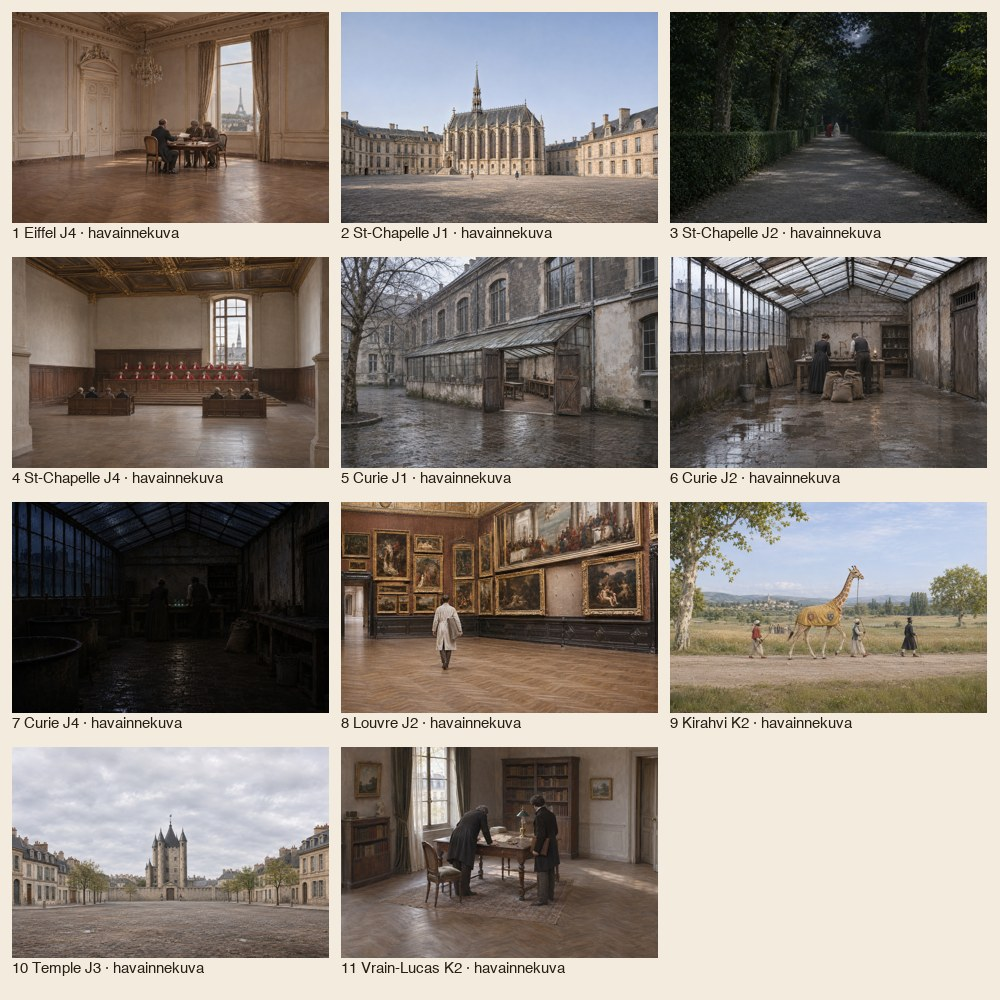
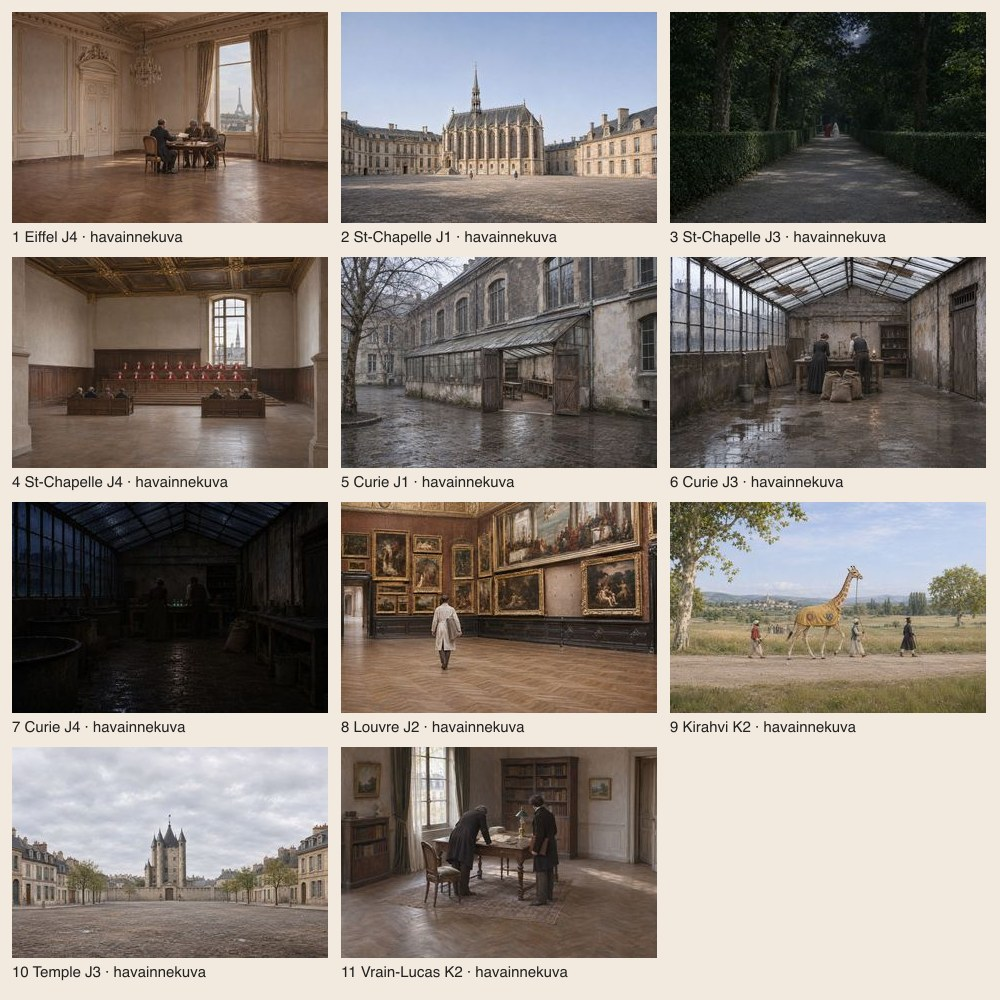
K-5 korjaus (KK 20.11.2026 14.00): kaulanauha J3, Curie radiumtyo J3 ja hohto J4, 11 kuvaa 1200 × 800, jaksotesti

diff --git a/js/packs/fokuskohteet-fra.js b/js/packs/fokuskohteet-fra.js
@@ -798,13 +798,13 @@ export const FOKUSKOHTEET_FRA = [
       },
       {
         osa: 'tapahtuma',
-        kuva: 'kaulanauha',
         teksti: '1770-luvulla jalokivikauppiaat tekivät timanttikaulanauhan. Marie Antoinette kieltäytyi '
           + 'ostamasta sitä, mutta huijari Jeanne de La Motte sai kardinaali de Rohanin uskomaan, että '
           + 'kuningatar halusi nauhan salaa.',
       },
       {
         osa: 'tapahtuma',
+        kuva: 'kaulanauha',
         teksti: 'Elokuussa 1784 kardinaali tapasi Versailles\'n puistossa naisen, jonka hän luuli kuningattareksi. '
           + 'Alkuvuodesta 1785 hän sai nauhan kauppiailta ja luovutti sen Jeannelle. Kun kauppiaat pyysivät '
           + 'maksua, kuningatar vaati selvitystä, ja kardinaali pidätettiin.',
@@ -933,7 +933,6 @@ export const FOKUSKOHTEET_FRA = [
       },
       {
         osa: 'tapahtuma',
-        kuva: 'radiumtyo',
         teksti: 'Marie ja Pierre Curie tutkivat uraanimalmin sisältämää säteilyä. Heinäkuussa 1898 he ilmoittivat '
           + 'löytäneensä uuden alkuaineen. He nimesivät sen Marien kotimaan Puolan mukaan poloniumiksi. '
           + 'Joulukuussa he ilmoittivat toisen, radiumin.',
@@ -943,12 +942,13 @@ export const FOKUSKOHTEET_FRA = [
       },
       {
         osa: 'tapahtuma',
-        kuva: 'hohto',
+        kuva: 'radiumtyo',
         teksti: 'Pelkkä ilmoitus ei riittänyt, vaan alkuaine piti saada puhtaana erilleen malmista. Vaja oli '
           + 'huonosti tuuletettu eikä pitänyt sadetta, ja malmia kului tonneittain.',
       },
       {
         osa: 'kaanne',
+        kuva: 'hohto',
         teksti: 'Työ vei yli kolme vuotta, ja vuonna 1902 heillä oli kymmenesosagramma puhdasta radiumkloridia. '
           + 'Iltaisin radium hohti pimeässä, ja Curiet ihailivat sitä. Marie sai fysiikan Nobelin vuonna 1903 '
           + 'Pierren ja Henri Becquerelin kanssa ja kemian Nobelin vuonna 1911 yksin.',

diff --git a/docs/raportit/k5-codex-kuvat-dataan-20261120.md b/docs/raportit/k5-codex-kuvat-dataan-20261120.md
@@ -1,38 +1,42 @@
 # K-5: Codexin 11 nostokuvaa dataan havainnekuvina (SK 20.11.2026)
 
-Pohja `sk/l5-nostotekstit-era3` b25b1cc54e. Kuvat luetaan ämpäristä `media.matkakirja.app/kuvat/tarina-*.jpg`; tekstejä, uusia kuvia, vientiä tai Pompidoun kuvaa ei muutettu.
+Pohja `sk/l5-nostotekstit-era3` b25b1cc54e. Kuvat luetaan ämpäristä `media.matkakirja.app/kuvat/tarina-*.jpg` (korjauskierroksen jälkeen 1200 × 800 -tiedostoina, ks. K-5 korjaus alla); tekstejä, uusia kuvia, vientiä tai Pompidoun kuvaa ei muutettu.
 
 ![arkki](k5-codex-kuvat-arkki-20261120.jpg)
 
 ## M1 luvuin
-- 11/11 kuvaa datassa manifestin nimeämän noston ja jakson kohdalla (taulukko alla; testi `tests/k5-codex-kuvat.test.mjs` tarkistaa paikan vientipaketin `nostokuvat`-listasta). Kuvat: Eiffel J4, Sainte-Chapelle J1, J2, J4, Curien vaja J1, J2, J4 (`fokuskohteet-fra.js`), Louvre J2, Temple-torni J3 (`monumentit-eurooppa.js`), Kirahvi kappale 2 (`fokusvirta-pariisi.js`, `kuvat`), Vrain-Lucas kappale 2 (`skandaalit.js`, `kuvat`).
+- 11/11 kuvaa datassa manifestin nimeämän noston ja jakson kohdalla (taulukko alla; testi `tests/k5-codex-kuvat.test.mjs` tarkistaa paikan vientipaketin `nostokuvat`-listasta). Kuvat: Eiffel J4, Sainte-Chapelle J1, J3, J4, Curien vaja J1, J3, J4 (`fokuskohteet-fra.js`), Louvre J2, Temple-torni J3 (`monumentit-eurooppa.js`), Kirahvi kappale 2 (`fokusvirta-pariisi.js`, `kuvat`), Vrain-Lucas kappale 2 (`skandaalit.js`, `kuvat`).
 - Jokaisella `laji: 'havainnekuva'`, lähderivi alkaa "Tekoälyllä tuotettu havainnekuva; Matkakirjan havainnekuva." ja jatkuu LAHTEET.md:n viitteillä ja rekonstruktiohuomiolla; tekijä "Matkakirja (tekoälyllä tuotettu havainnekuva)", lisenssi "Matkakirjan oma".
-- Ämpäristä haettu 11 tiedostoa (HTTP 200); sha256 täsmää SHA256SUMS-riveihin 11/11 (taulukon sarake).
+- Taulukon sha-sarake = uusien 1200 × 800 -tiedostojen sha256 (luovutuskansio `codex-k5-nostojen-kuvat-1200-20261120/SHA256SUMS`); ämpärin sha-vertailu ajetaan, kun JU on ladannut tiedostot.
 - Curien vajan J1: uusi `tarina-curie-1898-1-vaja.jpg` korvaa entisen `curie-1898-vaja.jpg`-havainnekuvan (K-4:n korvaustilaus, LAHTEET viittaa siihen); vanha tiedosto jää palvelimelle.
 - Lähtöluettelosta (`docs/raportit/pariisin-nostokuvat-rikkeet-lahto-20261120.json`) poistettu korjatut: sainte-chapelle ja curie-1898 (vajaa); rikkovia 22 → 20. Kaikki A-, B- ja D-nostot ovat nyt 3–4 kuvaa ja viimeinen valokuva.
 
 ## M2 silmin: nosto | jakso | kertojan teksti | kuva | selite
 | # | Nosto | Jakso | Kertojan teksti siltä jaksolta | Tiedosto (sha256 täsmää) | Selite (lyhyt) | Paikka listassa |
 |---|---|---|---|---|---|---|
-| 1 | Eiffel-torni (eiffel-torni) | 4 | Vuonna 1925 huijari Victor Lustig luki lehdestä, että tornin kunnossapito on kallista. Väärennetyin virkapaperein hän esiintyi ministeriön apulaisjohtajana ja myi muka tornin romukauppiaalle. Kauppias häpesi eikä ilmoittanut poliisille, joten Lustig palasi ja yritti uudestaan. | `tarina-eiffel-torni-4-lustig.jpg` ✓ 375a1149 | Hotellin salongissa neuvotellaan tornin kaupasta, ikkunasta näkyy Eiffel-torni (havainnekuva) | 3/4 |
-| 2 | Sainte-Chapelle | 1 | Sainte-Chapelle on kappeli Cité-saaren palatsin pihalla. Kuningas Ludvig IX rakennutti sen säilyttämään Kristuksen orjantappurakruunua, ja se vihittiin vuonna 1248. Samassa palatsissa ratkaistiin kuningattaren kaulanauhajuttu. | `tarina-sainte-chapelle-1-piha.jpg` ✓ 61bff8e9 | Sainte-Chapelle palatsin pihalla (havainnekuva) | 1/4 |
-| 3 | Sainte-Chapelle | 2 | 1770-luvulla jalokivikauppiaat tekivät timanttikaulanauhan. Marie Antoinette kieltäytyi ostamasta sitä, mutta huijari Jeanne de La Motte sai kardinaali de Rohanin uskomaan, että kuningatar halusi nauhan salaa. | `tarina-sainte-chapelle-2-kaulanauha.jpg` ✓ 6458963e | Yöllinen kuja Versailles'n puistossa, kaukana kaksi hahmoa (havainnekuva) | 2/4 |
-| 4 | Sainte-Chapelle | 4 | Oikeudenkäynti pidettiin Pariisin parlamentissa. Toukokuussa 1786 kardinaali vapautettiin, ja Jeanne leimattiin varkaaksi ja vietiin vankilaan. Kuningattaren maine kärsi. | `tarina-sainte-chapelle-4-parlamentti.jpg` ✓ b3907bba | Pariisin parlamentin istuntosali, ikkunasta näkyy kappelin torni (havainnekuva) | 3/4 |
-| 5 | Curien vaja | 1 | Curien vaja oli Pariisin fysiikan ja kemian koulun pihalla seissyt vaja, jossa Marie ja Pierre Curie eristivät radiumin. Se oli ennen ollut ruumiinavaussali. | `tarina-curie-1898-1-vaja.jpg` ✓ 612b92ad | Curien työtilana toiminut pihavaja koulun pihalla (havainnekuva) | 1/4 |
-| 6 | Curien vaja | 2 | Marie ja Pierre Curie tutkivat uraanimalmin sisältämää säteilyä. Heinäkuussa 1898 he ilmoittivat löytäneensä uuden alkuaineen. He nimesivät sen Marien kotimaan Puolan mukaan poloniumiksi. Joulukuussa he ilmoittivat toisen, radiumin. | `tarina-curie-1898-2-radiumtyo.jpg` ✓ 442615be | Marie ja Pierre Curie työssä vajassa, jonka katto vuotaa (havainnekuva) | 2/4 |
-| 7 | Curien vaja | 4 | Työ vei yli kolme vuotta, ja vuonna 1902 heillä oli kymmenesosagramma puhdasta radiumkloridia. Iltaisin radium hohti pimeässä, ja Curiet ihailivat sitä. Marie sai fysiikan Nobelin vuonna 1903 Pierren ja Henri Becquerelin kanssa ja kemian Nobelin vuonna 1911 yksin. | `tarina-curie-1898-4-hohto.jpg` ✓ dde23e28 | Hämärä vaja, pöydällä pulloja ja putkia, jotka hohtavat himmeästi (havainnekuva) | 3/4 |
-| 8 | Louvre | 2 | Maanantaina elokuussa 1911 Louvre oli suljettu. Valkoiseen työtakkiin pukeutunut mies nosti Mona Lisan seinältä, ja lukitun oven avasi hänelle putkimies. | `tarina-louvre-2-varkaus.jpg` ✓ 78b0cc58 | Valkotakkinen mies Salon Carrén seinän edessä, jossa on tyhjä ripustuspaikka (havainnekuva) | 2/4 |
-| 9 | Kirahvi 1827 (kappale) | 2 | Kirahvi talvehti Marseillessa, ja matkaan lähdettiin toukokuussa 1827. Eläimellä oli yllään vahattu sadetakki, johon oli kirjailtu vaakunat, ja luonnontieteilijä Étienne Geoffroy Saint-Hilaire käveli mukana. Lyonissa vastassa oli noin 30 000 ihmistä. | `tarina-kirahvi-1827-2-kavely.jpg` ✓ e1417c7c | Kirahvi vahatussa sadetakissa kävelee maantiellä saattueensa kanssa (havainnekuva) | 2/4 |
-| 10 | Temple-torni | 3 | Vuonna 1798 brittiamiraali Sidney Smith pakeni Templen vankilasta väärennetyillä siirtomääräyksillä: häntä oltiin muka viemässä toiseen vankilaan. Huhtikuussa 1804 kenraali Pichegru löydettiin kuolleena Templen vankilan sellistään. | `tarina-hahmotelma-temple-torni-3-kadonnut.jpg` ✓ a55eab0b | Temple-torni ja sen kehämuuri, portilla vartijat (havainnekuva) | 3/4 |
-| 11 | Vrain-Lucas (kappale) | 2 | Vuonna 1861 hän myi kuuluisalle matemaatikolle ja keräilijälle Michel Chaslesille Boylen, Newtonin ja Pascalin kirjeitä. Yhdessä niistä Pascal ilmoitti keksineensä painovoiman lait ennen Newtonia, ja Chasles maksoi vuosien mittaan kaikkiaan noin 140 000 frangia. | `tarina-vrain-lucas-2-kirjepino.jpg` ✓ d0ff80a4 | Chasles ja toinen mies tutkivat kirjepinoa työhuoneessa (havainnekuva) | 2/4 |
+| 1 | Eiffel-torni (eiffel-torni) | 4 | Vuonna 1925 huijari Victor Lustig luki lehdestä, että tornin kunnossapito on kallista. Väärennetyin virkapaperein hän esiintyi ministeriön apulaisjohtajana ja myi muka tornin romukauppiaalle. Kauppias häpesi eikä ilmoittanut poliisille, joten Lustig palasi ja yritti uudestaan. | `tarina-eiffel-torni-4-lustig.jpg` ✓ 6d89b906 | Hotellin salongissa neuvotellaan tornin kaupasta, ikkunasta näkyy Eiffel-torni (havainnekuva) | 3/4 |
+| 2 | Sainte-Chapelle | 1 | Sainte-Chapelle on kappeli Cité-saaren palatsin pihalla. Kuningas Ludvig IX rakennutti sen säilyttämään Kristuksen orjantappurakruunua, ja se vihittiin vuonna 1248. Samassa palatsissa ratkaistiin kuningattaren kaulanauhajuttu. | `tarina-sainte-chapelle-1-piha.jpg` ✓ 64db9b7d | Sainte-Chapelle palatsin pihalla (havainnekuva) | 1/4 |
+| 3 | Sainte-Chapelle | 3 | Elokuussa 1784 kardinaali tapasi Versailles'n puistossa naisen, jonka hän luuli kuningattareksi. Alkuvuodesta 1785 hän sai nauhan kauppiailta ja luovutti sen Jeannelle. Kun kauppiaat pyysivät maksua, kuningatar vaati selvitystä, ja kardinaali pidätettiin. | `tarina-sainte-chapelle-2-kaulanauha.jpg` ✓ ca0c2ff2 | Yöllinen kuja Versailles'n puistossa, kaukana kaksi hahmoa (havainnekuva) | 2/4 |
+| 4 | Sainte-Chapelle | 4 | Oikeudenkäynti pidettiin Pariisin parlamentissa. Toukokuussa 1786 kardinaali vapautettiin, ja Jeanne leimattiin varkaaksi ja vietiin vankilaan. Kuningattaren maine kärsi. | `tarina-sainte-chapelle-4-parlamentti.jpg` ✓ ad8f1e71 | Pariisin parlamentin istuntosali, ikkunasta näkyy kappelin torni (havainnekuva) | 3/4 |
+| 5 | Curien vaja | 1 | Curien vaja oli Pariisin fysiikan ja kemian koulun pihalla seissyt vaja, jossa Marie ja Pierre Curie eristivät radiumin. Se oli ennen ollut ruumiinavaussali. | `tarina-curie-1898-1-vaja.jpg` ✓ cf114862 | Curien työtilana toiminut pihavaja koulun pihalla (havainnekuva) | 1/4 |
+| 6 | Curien vaja | 3 | Pelkkä ilmoitus ei riittänyt, vaan alkuaine piti saada puhtaana erilleen malmista. Vaja oli huonosti tuuletettu eikä pitänyt sadetta, ja malmia kului tonneittain. | `tarina-curie-1898-2-radiumtyo.jpg` ✓ 4b1c30f9 | Marie ja Pierre Curie työssä vajassa, jonka katto vuotaa (havainnekuva) | 2/4 |
+| 7 | Curien vaja | 4 | Työ vei yli kolme vuotta, ja vuonna 1902 heillä oli kymmenesosagramma puhdasta radiumkloridia. Iltaisin radium hohti pimeässä, ja Curiet ihailivat sitä. Marie sai fysiikan Nobelin vuonna 1903 Pierren ja Henri Becquerelin kanssa ja kemian Nobelin vuonna 1911 yksin. | `tarina-curie-1898-4-hohto.jpg` ✓ faf51a69 | Hämärä vaja, pöydällä pulloja ja putkia, jotka hohtavat himmeästi (havainnekuva) | 3/4 |
+| 8 | Louvre | 2 | Maanantaina elokuussa 1911 Louvre oli suljettu. Valkoiseen työtakkiin pukeutunut mies nosti Mona Lisan seinältä, ja lukitun oven avasi hänelle putkimies. | `tarina-louvre-2-varkaus.jpg` ✓ ba20607e | Valkotakkinen mies Salon Carrén seinän edessä, jossa on tyhjä ripustuspaikka (havainnekuva) | 2/4 |
+| 9 | Kirahvi 1827 (kappale) | 2 | Kirahvi talvehti Marseillessa, ja matkaan lähdettiin toukokuussa 1827. Eläimellä oli yllään vahattu sadetakki, johon oli kirjailtu vaakunat, ja luonnontieteilijä Étienne Geoffroy Saint-Hilaire käveli mukana. Lyonissa vastassa oli noin 30 000 ihmistä. | `tarina-kirahvi-1827-2-kavely.jpg` ✓ 58d2e955 | Kirahvi vahatussa sadetakissa kävelee maantiellä saattueensa kanssa (havainnekuva) | 2/4 |
+| 10 | Temple-torni | 3 | Vuonna 1798 brittiamiraali Sidney Smith pakeni Templen vankilasta väärennetyillä siirtomääräyksillä: häntä oltiin muka viemässä toiseen vankilaan. Huhtikuussa 1804 kenraali Pichegru löydettiin kuolleena Templen vankilan sellistään. | `tarina-hahmotelma-temple-torni-3-kadonnut.jpg` ✓ 88302159 | Temple-torni ja sen kehämuuri, portilla vartijat (havainnekuva) | 3/4 |
+| 11 | Vrain-Lucas (kappale) | 2 | Vuonna 1861 hän myi kuuluisalle matemaatikolle ja keräilijälle Michel Chaslesille Boylen, Newtonin ja Pascalin kirjeitä. Yhdessä niistä Pascal ilmoitti keksineensä painovoiman lait ennen Newtonia, ja Chasles maksoi vuosien mittaan kaikkiaan noin 140 000 frangia. | `tarina-vrain-lucas-2-kirjepino.jpg` ✓ da3c4883 | Chasles ja toinen mies tutkivat kirjepinoa työhuoneessa (havainnekuva) | 2/4 |
 
 
 ## M3 luvuin
 - Selitteissä (lyhyt) ei sanaa valokuva, kuvaamista eikä vuotta; testi vartioi. Kaulanauhan yökuvan selite ja lähde eivät mainitse viitan väriä (KK 13.31: tiedossa oleva yksinkertaistus).
 - Täysi suite haaran työpuussa: 5 994 testiä, 5 979 läpi, 15 ohitettu, 0 kaatuu.
 
-## KK:lle päätettävät ja huomiot
-1. **Kuvan ja virkkeen osuma (M2).** Manifest nimeää kaksi paikkaa, joissa kuva näkyy ennen tai ohi virkkeensä: (a) kuva 3 (kaulanauhan yötapaaminen) on Sainte-Chapellen jaksolla 2, mutta yötapaamisesta (elokuu 1784) kerrotaan vasta jaksolla 3; (b) kuva 6 (radiumtyö vuotavassa vajassa, säkit) vastaa paremmin jaksoa 3 ("vaja oli…, alkuaine piti saada puhtaana") kuin jaksoa 2. Seurasin manifestia; siirto on yhden rivin muutos jaksoon `kuva:`-kenttään, sano jos siirretään.
-2. **Mitat.** Ämpärin tiedostot ovat 1536 × 1024 (Louvre 1041 × 694, kolme jo rajattua), koska sha täsmää Codexin toimitukseen. Data ilmoittaa tasalaatutestin vaatimat 1200 × 800 (sama 3:2-suhde). Louvren kuva on alle 1200 px leveä: jos halutaan oikeat mitat tai 1200 px:n rajaus, JU/PK ajaa `nostokuva.mjs`-rajauksen ja lataa uudet tiedostot (sha muuttuu).
-3. Kirahvin ja Vrain-Lucasin jaksot eivät ole jaksot-listoja vaan `kuvat`-järjestystä (nostokuvat: kuva, kuvat…, valokuva): uusi kuva on järjestyksessä kappaleen 2 kohdalla. Natiivi ei siis tiedä kappalenumeroa; muutos on sama malli kuin K-4 erässä 2.
-4. **Aito kuva ensin (M4, KK 09.13).** Siellä, missä aito kuva oli ensimmäinen, se pysyy: Eiffel (rakenteilla 1888), Louvre (julkisivu), Temple (linnoituspiirros), Vrain-Lucas (väärennös), Kirahvi (Marseillen maalaus); Curien J1:ssä oli ennenkin havainnekuva (korvattu uudella). **Poikkeus: Sainte-Chapelle.** Sen ainoa aito kuva (ikkunat) on jaksolla 5, joten se jää listassa viimeiseksi kolmen uuden havainnekuvan (J1, J2, J4) jälkeen; ennen se oli noston ainoa kuva. Jos KK:n sääntö tarkoittaa, että aidon kuvan pitää olla ensin myös tässä, ikkunat-kuva pitäisi siirtää jaksolle 1 (ja piha J5:lle tai pois): sano.
+## K-5 korjauskierros (KK:n päätös 20.11.2026 klo 14.00; aiempi: P-261120-10, P-261120-5, P-261120-8, P-261117-119)
+- **K1 Sainte-Chapelle:** kaulanauhan yökuva J2 → J3 (yötapaaminen kerrotaan J3:ssa, sääntö 9). Lista: piha J1, kaulanauha J3, parlamentti J4, ikkunat J5.
+- **K2 Curie:** radiumtyo J2 → J3 ("Vaja … ei pitänyt sadetta, malmia kului tonneittain") ja hohto J3 → J4 ("Iltaisin radium hohti"). Taulukko yllä datan mukaan; `tests/k5-codex-kuvat.test.mjs` tarkistaa nyt jakson numeron ja jakson tekstin (9 jaksokuvaa), ei vain paikkaa kuvalistassa.
+- **K3 Mitat:** kaikki 11 tiedostoa ovat nyt 1200 × 800, ja data kertoo saman. 10 Codexin 1536 × 1024 -kuvaa on ajettu `tools/sisalto/nostokuva.mjs`:llä (koko kuva, ei esirajausta, sama 3:2-rajaus kuin K-4:ssä). Louvre: luovutuskansiossa on vain jo rajattu 1041 × 694 (rajaamatonta Codex-alkuperäistä ei ole), joten se on suurennettu 15 % (lanczos3) 1200 × 800:aan; `nostokuva.mjs` ei suurenna, joten tässä käytettiin sharpia suoraan. Uudet tiedostot: `/Users/Shared/Claude/luovutukset/codex-k5-nostojen-kuvat-1200-20261120/` (11 JPG + SHA256SUMS). Ämpärissä vanhat 1536 × 1024 -tiedostot samoilla nimillä: JU lataa uudet niiden päälle (sha muuttuu). Vain 1200 × 800 -tiedostot lähtevät, 2048-versioita ei tarvita.
+- **K4 Sainte-Chapelle "aito ensin":** poikkeus hyväksytty; ikkunat pysyy J5:llä ja on viimeinen aito valokuva.
+- Täysi suite ja uusi sha: palautusviestissä.
+
+## Muut huomiot
+- Kirahvin ja Vrain-Lucasin jaksot eivät ole jaksot-listoja vaan `kuvat`-järjestystä (nostokuvat: kuva, kuvat…, valokuva): uusi kuva on järjestyksessä kappaleen 2 kohdalla. Natiivi ei siis tiedä kappalenumeroa; muutos on sama malli kuin K-4 erässä 2.
